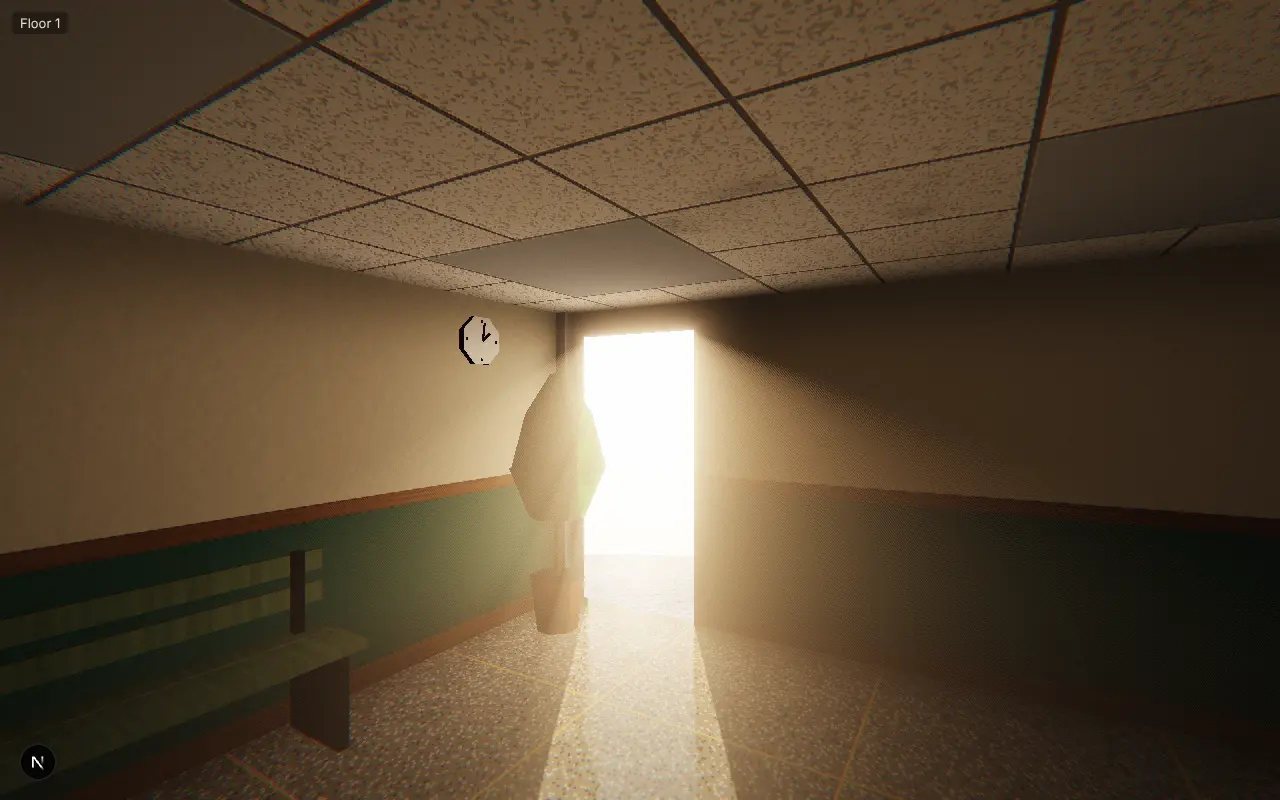
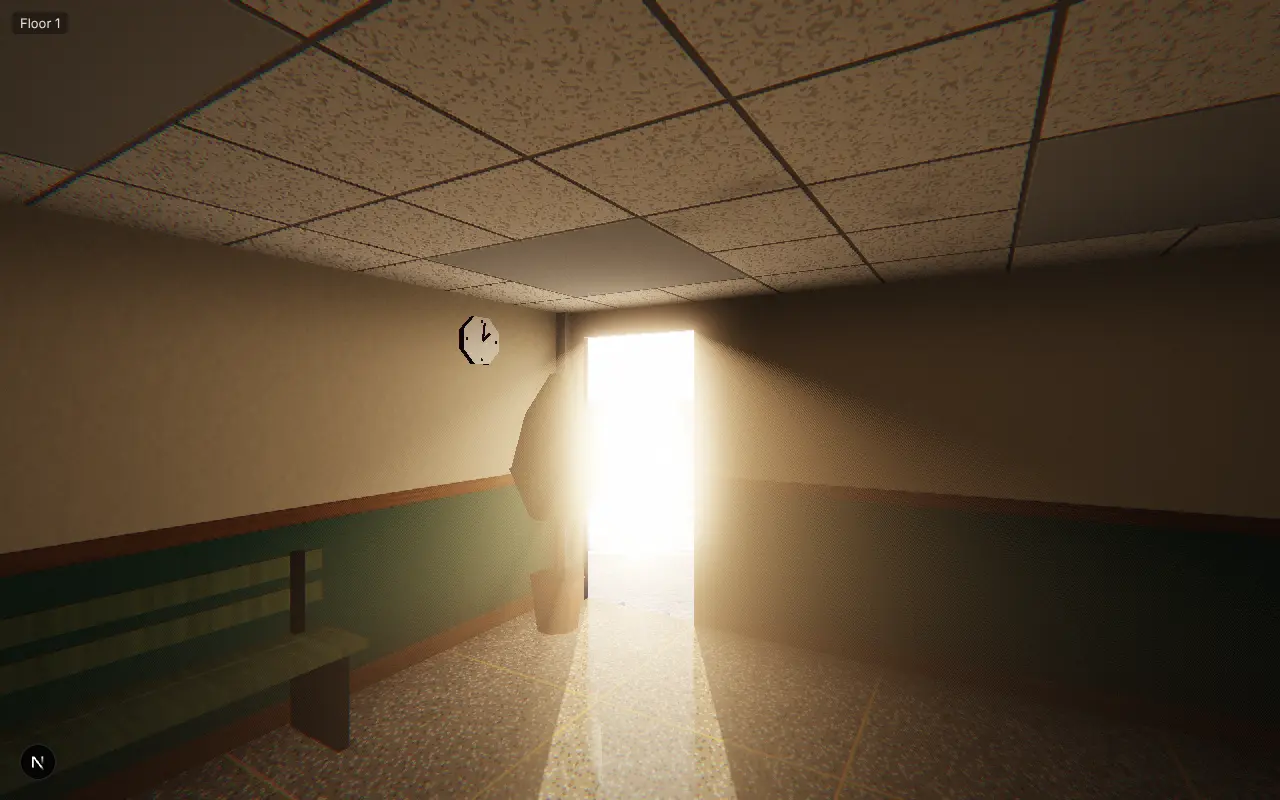
feat: a staged pose takes a lens, and the eye takes its time in the dark
The play hook's `setPose` takes `{ moving?, lens? }` in place of a bare
`moving`, so a frame script can shoot floor 1's room as an eye still used
to daylight sees it; `pnpm outside:cube --indoors <0..1>` passes it for an
eye in the room. `shoot`'s callers pass `{ moving }`.

The eye gets used to the dark with a time constant of 6 s where it had
2.5: the room comes up over a quarter of a minute, so whoever walks in
looks about first. To the light it stays half a second.

Claude-Session: https://claude.ai/code/session_01DaohkCDdGLyRAp2Yux9jAB

Changed region(s): [[0.4062, 0.5, 0.4688, 0.7188], [0.5312, 0.5, 0.5625, 0.6875], [0.4375, 0.4375, 0.4688, 0.4688]]

diff --git a/src/cube/pages/cube/lib/play.ts b/src/cube/pages/cube/lib/play.ts
@@ -17,22 +17,33 @@ export const PLAY_HOOK = '__cubePlay';
  */
 export const PLAY_INSTANT = Date.UTC(2026, 10, 1, 12);
 
+/** What a script puts in the rooms until its next call. */
+export type Among = {
+  /** Quads drawn until the next call, each in its own room's frame. */
+  moving?: readonly Quad[];
+};
+
 /**
- * What a script sets beside an outside eye: `moving`, drawn until the next
- * call, each quad in the frame of floor 1's room, which reaches past its
- * walls as far as the island does; whether the ladder has gone; and the body
- * that casts a shadow.
+ * What a script sets beside a pose: an eye on floor 1 given a `lens` sees
+ * through it in its floor's place, which is how a frame is shot as an eye
+ * still used to daylight sees the room.
  */
-export type OutsideSet = OutdoorState & { moving?: readonly Quad[] };
+export type InsideSet = Among & { lens?: OutsideLens };
+
+/**
+ * What a script sets beside an outside eye, every quad of its `moving` in the
+ * frame of floor 1's room, which reaches past its walls as far as the island
+ * does: whether the ladder has gone, and the body that casts a shadow.
+ */
+export type OutsideSet = Among & OutdoorState;
 
 /** The scene's half of the hook. */
 export type ScenePlay = Readying & {
   /**
-   * Puts the eye at `pose`, with `moving` in the rooms until the next call,
-   * each quad in its own room's frame; resolves once a frame of it is on
-   * screen.
+   * Puts the eye at `pose`, with `among` set until the next call; resolves
+   * once a frame of it is on screen.
    */
-  setPose: (pose: Pose, moving?: readonly Quad[]) => Promise<void>;
+  setPose: (pose: Pose, among?: InsideSet) => Promise<void>;
   /**
    * Puts the eye outside the cube at `eye`, seeing through `lens` —
    * `OUTSIDE_LENS` where none is given — until the next `setPose`, with

diff --git a/src/cube/pages/cube/ui/cube-scene.ts b/src/cube/pages/cube/ui/cube-scene.ts
@@ -153,8 +153,12 @@ export function mountCube(
   /** The outside eye the frame hook gave, and the one the play hook holds. */
   let hooked: OutsideEye | null = null;
   let stagedEye: OutsideEye | null = null;
-  /** The lens the frame hook gave, for an eye on floor 1 as for one outside. */
+  /**
+   * The lens for an eye on floor 1 as for one outside: the frame hook's, and
+   * the one a staged pose carries, which the hook's frames do not clear.
+   */
   let through: OutsideLens | null = null;
+  let stagedThrough: OutsideLens | null = null;
   /** The ladder and the body as the frame hook last gave them, and the play hook's. */
   let hookedState: OutdoorState = {};
   let stagedState: OutdoorState = {};
@@ -263,7 +267,7 @@ export function mountCube(
       clear: airAt(depth),
       lens:
         outdoor?.lens ??
-        (showsOutside ? through : null) ??
+        (showsOutside ? (stagedThrough ?? through) : null) ??
         (lenses.has(at.n) ? at.n : built.pose.n),
       outdoors: showsOutside
         ? {
@@ -330,11 +334,12 @@ export function mountCube(
 
   return {
     ready: async () => firstFrame.promise,
-    setPose: async (next, among = []) => {
+    setPose: async (next, { moving: among = [], lens = null } = {}) => {
       await firstFrame.promise;
       pose = next;
       staged = among;
       stagedEye = null;
+      stagedThrough = lens;
       await shown(inEyeRoom(next));
     },
     setEye: async (
@@ -346,6 +351,7 @@ export function mountCube(
       stagedEye = { outside, lens };
       staged = among;
       stagedState = state;
+      stagedThrough = null;
       await shown(FIRST_ROOM);
     },
     adapter: () => renderer?.adapter ?? 'none',

diff --git a/src/cube/scripts/lib/cube-page.ts b/src/cube/scripts/lib/cube-page.ts
@@ -3,9 +3,10 @@ import path from 'node:path';
 import { setTimeout as sleep } from 'node:timers/promises';
 import { z } from 'zod';
 
-import type { Outside, Pose, Quad } from '@/cube/entities/world';
+import type { Outside, Pose } from '@/cube/entities/world';
 import {
   type CubePlayHook,
+  type InsideSet,
   type OutsideLens,
   type OutsideSet,
   PLAY_HOOK,
@@ -59,10 +60,10 @@ async function until(tab: Tab, expression: string, deadline: number) {
 /** What a script does with `/cube` once its hook is up. */
 export type CubePage = {
   /**
-   * Puts the eye at `pose`, `moving` in the rooms around it, and saves the
-   * frame as `file`.
+   * Puts the eye at `pose`, `among` set around it, and saves the frame as
+   * `file`.
    */
-  shoot: (file: string, pose: Pose, moving?: readonly Quad[]) => Promise<void>;
+  shoot: (file: string, pose: Pose, among?: InsideSet) => Promise<void>;
   /**
    * Puts the eye outside the cube at `eye`, seeing through `lens` — the
    * page's own where none is given — with `among` set, and saves the frame
@@ -111,8 +112,8 @@ export async function withCubePage(
       process.stdout.write(`shot ${path.relative(REPO_ROOT, file)}\n`);
     };
     await script({
-      shoot: async (file, pose, moving = []) =>
-        shot(file, call('setPose', source(pose), source(moving))),
+      shoot: async (file, pose, among = {}) =>
+        shot(file, call('setPose', source(pose), source(among))),
       shootOutside: async (file, eye, lens, among = {}) =>
         shot(
           file,

diff --git a/src/cube/pages/cube/lib/adaptation.ts b/src/cube/pages/cube/lib/adaptation.ts
@@ -19,9 +19,12 @@ const HALF_ACROSS = 0.85;
 const HALF_UP = 0.6;
 /** The share of the view in daylight at which the eye is wholly used to it. */
 const FILLED = 0.3;
-/** Seconds to get most of the way used to the light, and to the dark. */
+/**
+ * Seconds to get most of the way used to the light, and to the dark: the room
+ * comes up slowly enough that whoever walks in looks about it first.
+ */
 const TO_LIGHT = 0.5;
-const TO_DARK = 2.5;
+const TO_DARK = 6;
 
 /** Whether the ray from `pose`'s eye turned by `yaw` and `elevation` leaves by the doorway. */
 function leaves(pose: Pose, yaw: number, elevation: number): boolean {
@@ -62,7 +65,7 @@ export function settled(at: Whereabouts): number {
 
 /**
  * `indoors` after `seconds` more at `at`: it nears what the eye settles to
- * there, to the light within the second and to the dark over several.
+ * there, to the light within the second and to the dark over a quarter of a minute.
  */
 export function adapted(
   indoors: number,

diff --git a/src/cube/scripts/outside-cube.ts b/src/cube/scripts/outside-cube.ts
@@ -147,11 +147,17 @@ async function main(): Promise<void> {
     eyelids: numberOf('eyelids', OUTSIDE_LENS.eyelids),
     indoors: numberOf('indoors', 0),
   };
+  // An eye in the room sees through its floor's lens unless `--indoors` asks
+  // for the outside's at that adaptation: the room as an eye still used to
+  // daylight sees it.
+  const inside = flag('indoors') === undefined ? {} : { lens };
   await withCubePage(async ({ shoot, shootOutside }) =>
     inTurn(chosen(), async ([name, at]) => {
       const file = path.join(FRAMES, `${name}.png`);
       const started = Date.now();
-      await (isOutside(at) ? shootOutside(file, at, lens) : shoot(file, at));
+      await (isOutside(at)
+        ? shootOutside(file, at, lens)
+        : shoot(file, at, inside));
       process.stdout.write(`  in ${String(Date.now() - started)} ms\n`);
     }),
   );

diff --git a/src/cube/scripts/play-cube.ts b/src/cube/scripts/play-cube.ts
@@ -175,7 +175,7 @@ async function main(): Promise<void> {
   const planned = await shots();
   await withCubePage(async ({ shoot }) =>
     inTurn(planned, async ([name, pose, hands]) =>
-      shoot(path.join(FRAMES, name), pose, hands),
+      shoot(path.join(FRAMES, name), pose, { moving: hands }),
     ),
   );
 }

diff --git a/src/cube/pages/cube/index.node-safe.ts b/src/cube/pages/cube/index.node-safe.ts
@@ -2,6 +2,7 @@ export { outdoorSources } from './lib/outdoor-shaders';
 export { OUTSIDE_LENS, type OutsideLens } from './lib/outside-lens';
 export {
   type CubePlayHook,
+  type InsideSet,
   type OutsideSet,
   PLAY_HOOK,
   PLAY_QUERY,

diff --git a/docs/remove-before-merging/cube-intro-j2wt34/frames/core/README.md b/docs/remove-before-merging/cube-intro-j2wt34/frames/core/README.md
@@ -20,6 +20,10 @@ and shadow, and core's stand-ins for sky, shell and sea.
   exposure 1.
 - `room-doorway.webp` — floor 1's room looking at the doorway: the opening, the
   sun's beam across the floor and its haze, the ceiling panels off.
+- `room-fresh.webp` — the same pose at `--indoors 0`: the room as an eye just in
+  from daylight sees it, dim but for the beam, the sea plain through the
+  doorway.
+- `room-halfway.webp` — the same at `--indoors 0.5`.
 - `doorway-down.webp` — the sill looking 40° down through floor 1's lens: the
   sand under the doorway, bleached, as an eye used to the room sees it.
 - `sill-halfway.webp` — an eye on the sill looking out through the outside lens
